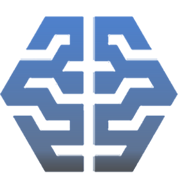
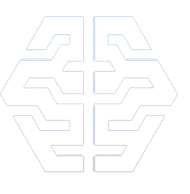
Changed images instead of CSS filter

diff --git a/css/creative.css b/css/creative.css
@@ -152,8 +152,6 @@
   color:#4287D9;
 }
 
-.flblk{filter: brightness(100);}
-
 .techloopLogo3{
     height:100px;
     width:auto;
